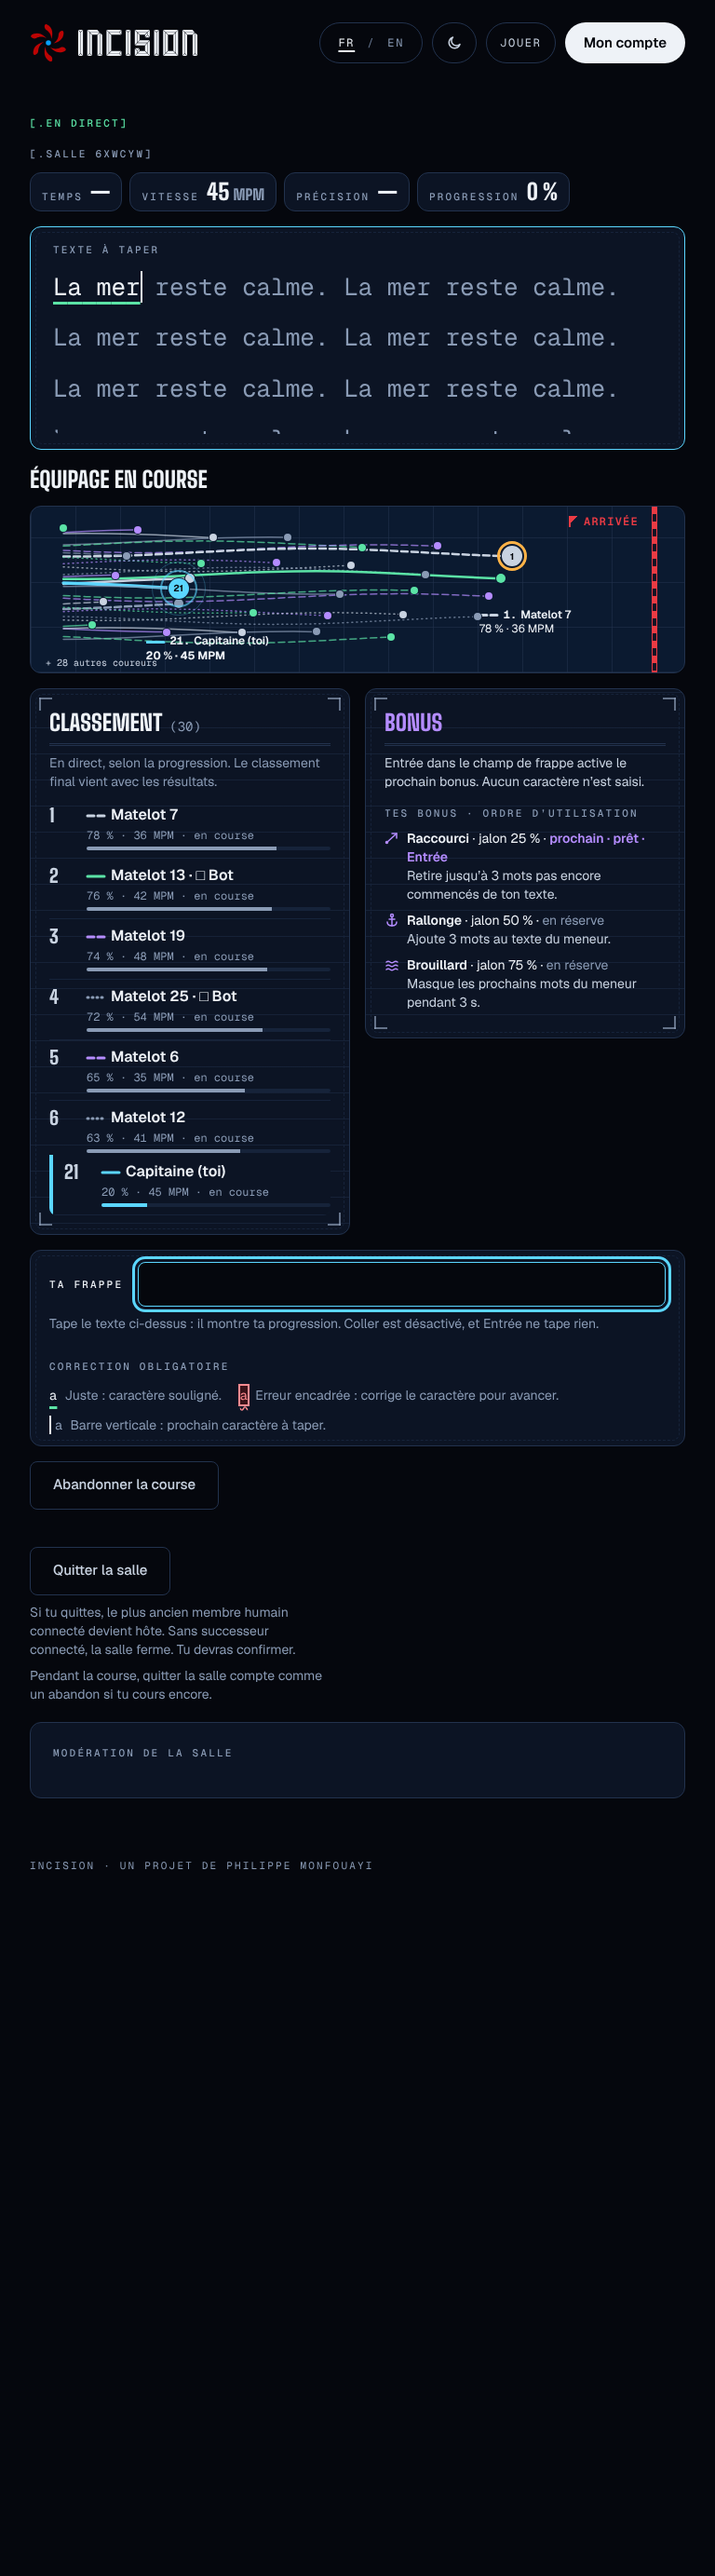
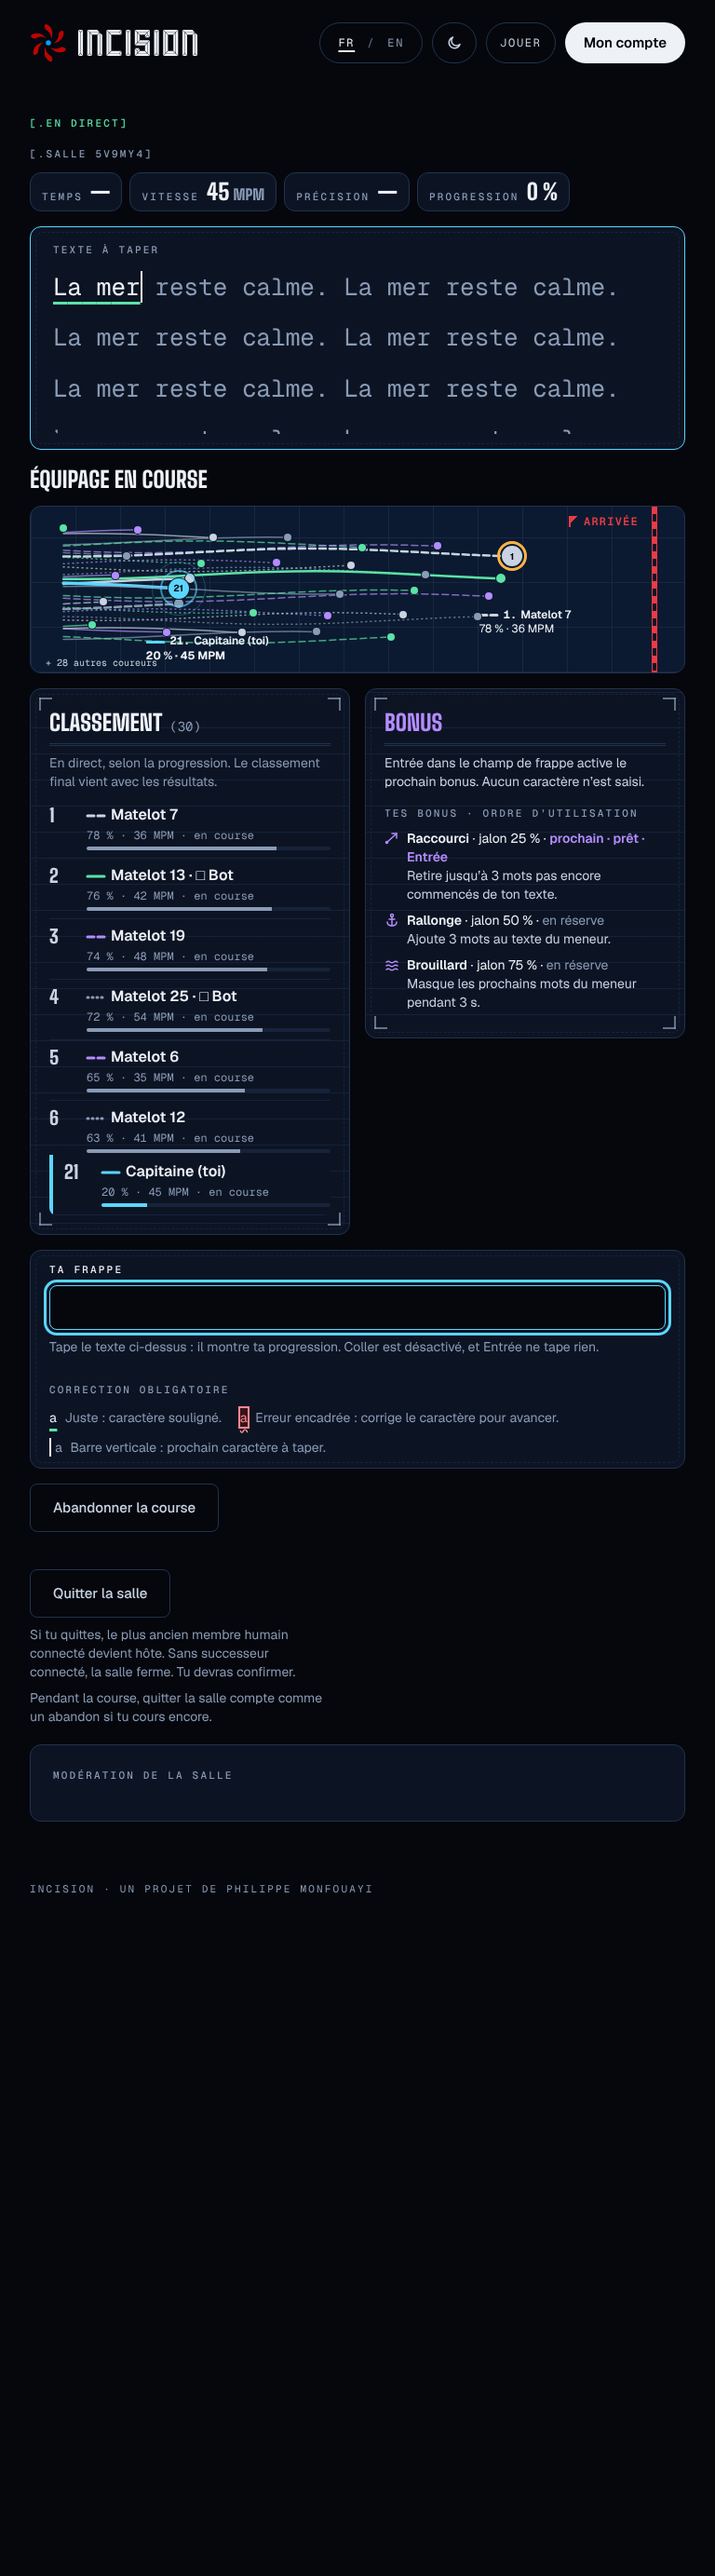
fix(race): « Ta frappe » field as wide as the text (#51)
The label sits above the field and the help under it, so the field spans
the pad, aligned with the text to type. Nothing else changes.

Refs #51

Claude-Session: https://claude.ai/code/session_01FBFqZKrST8mZ9xdwzzKdoi

Changed region(s): [[0.0312, 0.4975, 0.9375, 0.684]]

diff --git a/apps/web/src/app/(site)/rooms/[code]/race-view.tsx b/apps/web/src/app/(site)/rooms/[code]/race-view.tsx
@@ -657,27 +657,26 @@ function TypingPad({
       event.preventDefault();
       field.focus();
     }}>
-      <div className="grid items-center gap-x-5 gap-y-2 lg:grid-cols-[minmax(0,26rem)_minmax(0,1fr)]">
-        <div className="flex items-center gap-4">
-          <label htmlFor={TYPING_INPUT_ID} className={`${monoLabel} shrink-0 text-ecume`}>
-            {t.typingLabel}
-          </label>
-          <input
-            ref={input}
-            id={TYPING_INPUT_ID}
-            type="text"
-            autoComplete="off"
-            autoCorrect="off"
-            autoCapitalize="off"
-            spellCheck={false}
-            disabled={!enabled}
-            aria-invalid={expected !== undefined}
-            aria-describedby={`${TYPING_STATUS_ID} ${TYPING_HINT_ID}`}
-            onFocus={() => setFocused(true)}
-            onBlur={() => setFocused(false)}
-            className={panels.field}
-          />
-        </div>
+      {/* The label above, the field as wide as the text above it (#51), the help under it. */}
+      <div className="flex flex-col gap-2">
+        <label htmlFor={TYPING_INPUT_ID} className={`${monoLabel} text-ecume`}>
+          {t.typingLabel}
+        </label>
+        <input
+          ref={input}
+          id={TYPING_INPUT_ID}
+          type="text"
+          autoComplete="off"
+          autoCorrect="off"
+          autoCapitalize="off"
+          spellCheck={false}
+          disabled={!enabled}
+          aria-invalid={expected !== undefined}
+          aria-describedby={`${TYPING_STATUS_ID} ${TYPING_HINT_ID}`}
+          onFocus={() => setFocused(true)}
+          onBlur={() => setFocused(false)}
+          className={panels.field}
+        />
         <div className="min-h-10 text-sm">
           <p id={TYPING_STATUS_ID} role="status" tabIndex={-1} className={`outline-none ${expected !== undefined ? "text-erreur" : "text-brume"}`}>
             {expected !== undefined && <span aria-hidden="true">⚠ </span>}

diff --git a/docs/evidence/f04-3d-typing-pad-routes/README.md b/docs/evidence/f04-3d-typing-pad-routes/README.md
@@ -17,9 +17,10 @@ image, no sound, no new animation; the native caret is kept.
 - Base: F-04.3C at `9f72197` (PR #203 before this round).
 - Commits: `7fef79e` (routes), `b838b48` (layout), `c256bf5` (tests: first verified
   SHA), the review fixes `e68887e`, `6b8ef13`, `c326e91`, the D-15 record `feb4d43`
-  (full suite), then the re-review fixes `b8fe99c` and `7d5e2ff`.
-- **Tested SHA: `7d5e2ff`.** This README, the matrix rows and the screenshots come
-  in a later documentation-only commit.
+  (full suite), then the re-review fixes `b8fe99c` and `7d5e2ff`, and Philippe's
+  width correction (see below).
+- **Tested SHAs: `7d5e2ff`, then the width correction.** This README, the matrix rows
+  and the screenshots come in documentation-only commits.
 
 All tests ran on a local PostgreSQL 16 with synthetic data only (`incision_e2e`,
 `incision_test`). No production, Azure, Neon, recipe or Docker resource was used.
@@ -28,7 +29,7 @@ All tests ran on a local PostgreSQL 16 with synthetic data only (`incision_e2e`,
 
 | Area | F-04.3C (before) | F-04.3D (after) |
 |---|---|---|
-| Typing | An invisible input inside the text | One real, labelled, compact field « Ta frappe » / “Your typing” (48 px, `moi` caret and focus ring) under the panels' row. The text above only shows the progress. A press on the text or on the pad, or Escape from the text or a panel, gives the keys back to the field. Enter keeps its bonus behaviour (D-16); paste and drop stay refused |
+| Typing | An invisible input inside the text | One real, labelled, compact field « Ta frappe » / “Your typing” (48 px, `moi` caret and focus ring) under the panels' row, as wide as the text above it: the label over the field, the help under it (Philippe's sketch-approved correction of November 12). The text above only shows the progress. A press on the text or on the pad, or Escape from the text or a panel, gives the keys back to the field. Enter keeps its bonus behaviour (D-16); paste and drop stay refused |
 | Order (≥ 1024 px) | Text, row, then secondary actions; « Quitter la salle » above the race for a non-host | Compact indicators; the text across the full width; one row: standings left, track centre, bonuses right (standings beside a wider track without bonuses); « Ta frappe »; then the secondary actions, leaving the room included, for everyone |
 | Heights | Text 16 rem; row unbounded | The text and the row share the viewport height (`clamp`), so text, track and field are on screen together at 1440 × 900, 1280 × 720 and 1024 × 768 |
 | Side panels | Dashed inner frame | A ship's logbook: ruled `houle` lines, four corner marks, a double rule under the heading |
@@ -85,6 +86,8 @@ Runtime: Node 24, Chromium (Playwright), production build.
   note. The affected specs (race-layout, race-track, typing-clarity, bonus-ui, race,
   host-succession, bot-races, mobile-keyboard, guest-race-commands): **54 passed** on
   `b8fe99c`, and **54 passed** again on `7d5e2ff`.
+- Width correction (the pad's markup only): web unit tests (1,115), lint, typecheck
+  and the production build passed; the same 54 specs: **54 passed**.
 
 ## Reviews
 
@@ -97,7 +100,8 @@ Runtime: Node 24, Chromium (Playwright), production build.
 
 ## Screenshots
 
-`before/` is `9f72197` (F-04.3C); `after/` is `7d5e2ff`. Same fixture: 30 runners
+`before/` is `9f72197` (F-04.3C); `after/` is `7d5e2ff`, with the layout, no-bonus,
+zoom and reconnecting captures retaken after the width correction. Same fixture: 30 runners
 (a quarter of them bots), an Arcade inventory, the player at 20 %.
 
 - `before|after/layout-{fr-CA-aube,en-US-abysse}-{1440x900,1280x720,1024x768}.png`.
@@ -120,5 +124,7 @@ Runtime: Node 24, Chromium (Playwright), production build.
 - Two players can see the same runner in different colours (yours is always `moi`).
 - At 1280 × 720 the standings row shows about two runners plus your own (sticky)
   line; the rest scrolls in the panel. The sheet's last visible line can be cut
-  through its glyphs (the text scrolls).
+  through its glyphs (the text scrolls). With the help now under the full-width
+  field, at 1280 × 720 the help line starts at the bottom edge of the screen (the field
+  itself is wholly visible); it scrolls into view.
 - No merge, deployment or production claim; human acceptance pending.
